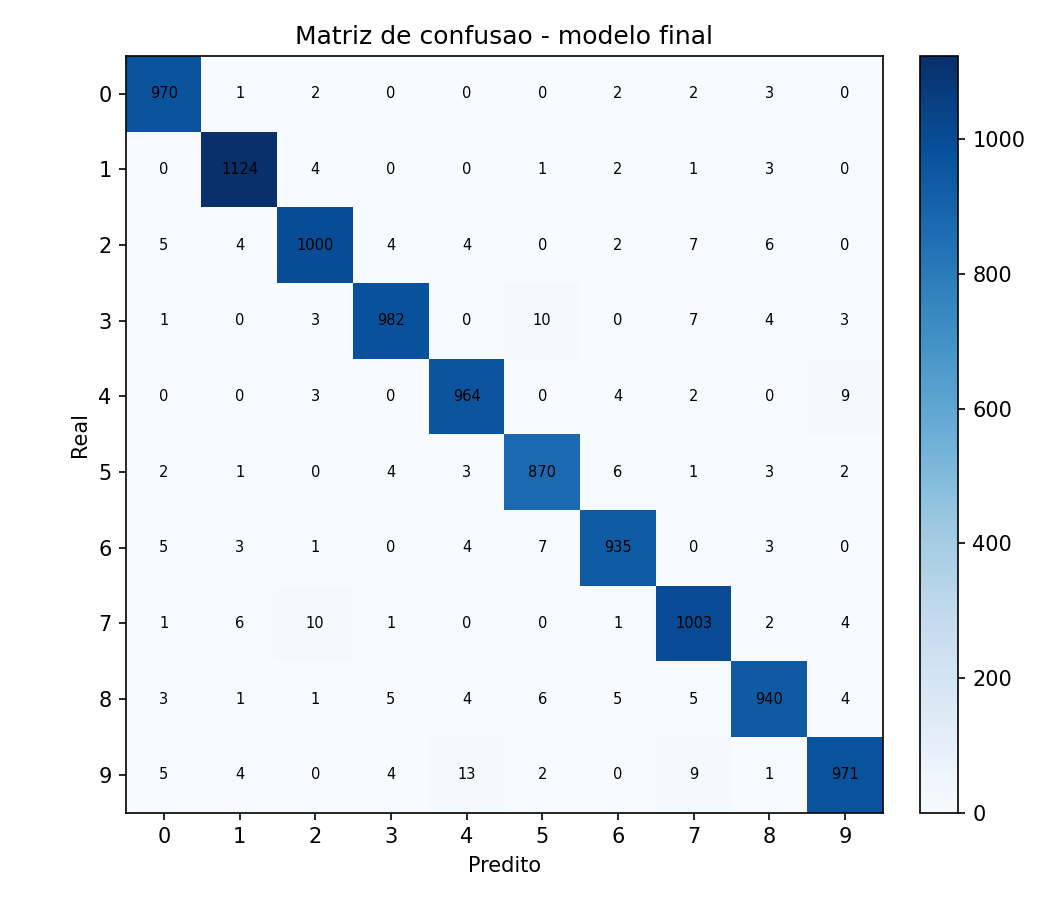
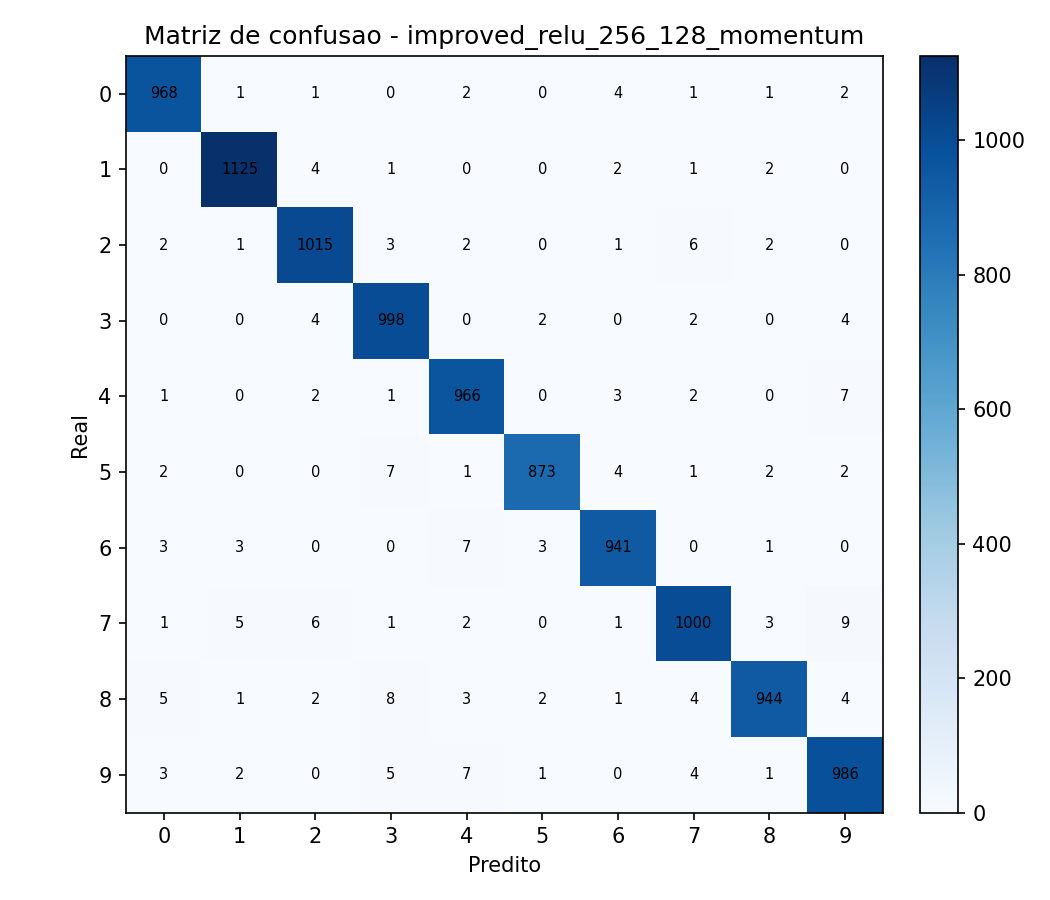
feat: melhora mlp com momentum e mais capacidade

diff --git a/scripts/train.py b/scripts/train.py
@@ -27,6 +27,7 @@ EXPERIMENTS = [
         "activation": "relu",
         "learning_rate": 0.08,
         "learning_rate_decay": 0.96,
+        "momentum": 0.0,
         "epochs": 8,
         "batch_size": 128,
         "l2": 0.0,
@@ -38,10 +39,23 @@ EXPERIMENTS = [
         "activation": "relu",
         "learning_rate": 0.12,
         "learning_rate_decay": 0.96,
+        "momentum": 0.0,
         "epochs": 10,
         "batch_size": 128,
         "l2": 0.0,
         "seed": 42,
+    },
+    {
+        "name": "improved_relu_256_128_momentum",
+        "hidden_layers": [256, 128],
+        "activation": "relu",
+        "learning_rate": 0.05,
+        "learning_rate_decay": 0.97,
+        "momentum": 0.9,
+        "epochs": 15,
+        "batch_size": 128,
+        "l2": 1e-4,
+        "seed": 84,
     },
 ]
 
@@ -72,6 +86,9 @@ def main() -> None:
     experiments = _quick_experiments() if args.quick else EXPERIMENTS
     summary = []
     histories: dict[str, list[dict[str, float]]] = {}
+    best_model: MLPClassifier | None = None
+    best_accuracy = -1.0
+    best_name = ""
 
     for config in experiments:
         layer_sizes = [X_train.shape[1], *config["hidden_layers"], 10]
@@ -86,6 +103,7 @@ def main() -> None:
             batch_size=config["batch_size"],
             learning_rate=config["learning_rate"],
             learning_rate_decay=config["learning_rate_decay"],
+            momentum=config["momentum"],
             l2=config["l2"],
             train_metric_sample_size=min(10_000, X_train.shape[0]),
             verbose=True,
@@ -103,15 +121,20 @@ def main() -> None:
         histories[config["name"]] = history
         _write_history(results_dir / f"history_{config['name']}.csv", history)
 
-        if config["name"].startswith("final"):
-            _plot_confusion_matrix(
-                y_test,
-                model.predict(X_test),
-                results_dir / "confusion_matrix_final.png",
-            )
+        if test_metrics["accuracy"] > best_accuracy:
+            best_accuracy = test_metrics["accuracy"]
+            best_model = model
+            best_name = config["name"]
 
     _write_summary(results_dir, summary)
     _plot_histories(histories, results_dir / "loss_accuracy.png")
+    if best_model is not None:
+        _plot_confusion_matrix(
+            y_test,
+            best_model.predict(X_test),
+            results_dir / "confusion_matrix_final.png",
+            title=f"Matriz de confusao - {best_name}",
+        )
     print("\nResumo salvo em", results_dir / "summary.json")
 
 
@@ -166,14 +189,14 @@ def _plot_histories(histories: dict[str, list[dict[str, float]]], path: Path) ->
     plt.close(fig)
 
 
-def _plot_confusion_matrix(y_true: np.ndarray, y_pred: np.ndarray, path: Path) -> None:
+def _plot_confusion_matrix(y_true: np.ndarray, y_pred: np.ndarray, path: Path, title: str) -> None:
     matrix = np.zeros((10, 10), dtype=np.int64)
     for actual, predicted in zip(y_true, y_pred):
         matrix[int(actual), int(predicted)] += 1
 
     fig, axis = plt.subplots(figsize=(7, 6))
     image = axis.imshow(matrix, cmap="Blues")
-    axis.set_title("Matriz de confusao - modelo final")
+    axis.set_title(title)
     axis.set_xlabel("Predito")
     axis.set_ylabel("Real")
     axis.set_xticks(range(10))

diff --git a/README.md b/README.md
@@ -2,7 +2,7 @@
 
 Implementacao didatica de um Multi-Layer Perceptron para classificar digitos manuscritos do MNIST. A rede foi feita manualmente com NumPy: forward pass, softmax, cross-entropy, backpropagation e mini-batch SGD. O `torchvision` foi usado apenas para carregar o dataset, conforme permitido no enunciado.
 
-Resultado final: **97.59% de acuracia no conjunto de teste**, acima da meta de 92%.
+Resultado final melhorado: **98.16% de acuracia no conjunto de teste**, acima da meta de 92% e acima da configuracao anterior de 97.59%.
 
 ## Fontes de estudo
 
@@ -16,6 +16,7 @@ Resultado final: **97.59% de acuracia no conjunto de teste**, acima da meta de 9
 |-- mlp/
 |   |-- activations.py
 |   |-- data.py
+|   |-- gradient_check.py
 |   |-- losses.py
 |   |-- network.py
 |   `-- optimizers.py
@@ -23,13 +24,16 @@ Resultado final: **97.59% de acuracia no conjunto de teste**, acima da meta de 9
 |   `-- experimentos.ipynb
 |-- results/
 |   |-- confusion_matrix_final.png
+|   |-- gradient_check.json
 |   |-- history_compact_relu_64_32.csv
 |   |-- history_final_relu_128_64.csv
+|   |-- history_improved_relu_256_128_momentum.csv
 |   |-- loss_accuracy.png
 |   |-- summary.csv
 |   |-- summary.json
 |   `-- train_full.log
 |-- scripts/
+|   |-- check_gradients.py
 |   `-- train.py
 |-- tests/
 |   |-- test_backprop.py
@@ -45,6 +49,7 @@ python -m venv .venv
 .\.venv\Scripts\Activate.ps1
 pip install -r requirements.txt
 python -m pytest tests
+python scripts/check_gradients.py
 python scripts/train.py
 ```
 
@@ -58,10 +63,10 @@ O notebook principal esta em `notebooks/experimentos.ipynb`.
 
 ## Arquitetura escolhida
 
-Modelo final:
+Modelo final melhorado:
 
 ```text
-784 entradas -> 128 ReLU -> 64 ReLU -> 10 logits -> softmax
+784 entradas -> 256 ReLU -> 128 ReLU -> 10 logits -> softmax
 ```
 
 Decisoes:
@@ -70,14 +75,18 @@ Decisoes:
 - Usei **ReLU** nas camadas ocultas porque e simples, barata e evita boa parte da saturacao que sigmoid/tanh podem ter em redes maiores.
 - Usei **inicializacao He** nas camadas ocultas para preservar melhor a escala dos sinais no comeco do treino.
 - Usei **softmax + cross-entropy** na saida porque o problema e multiclasse.
-- Usei **mini-batch SGD** com batch size 128 e decaimento simples do learning rate.
+- Usei **mini-batch SGD com momentum 0.9** no modelo melhorado para acelerar a convergencia sem trocar a implementacao manual por um framework.
+- Usei **L2 leve (`1e-4`)** porque a nova arquitetura chegou perto de 100% no subconjunto de treino usado para metrica, entao havia risco de overfitting.
 
 ## Resultados
 
 | Configuracao | Arquitetura | Epocas | LR inicial | Decaimento | Acuracia teste | Loss teste |
 | --- | --- | ---: | ---: | ---: | ---: | ---: |
 | `compact_relu_64_32` | 784 -> 64 -> 32 -> 10 | 8 | 0.08 | 0.96 | 96.34% | 0.1246 |
-| `final_relu_128_64` | 784 -> 128 -> 64 -> 10 | 10 | 0.12 | 0.96 | **97.59%** | **0.0821** |
+| `final_relu_128_64` | 784 -> 128 -> 64 -> 10 | 10 | 0.12 | 0.96 | 97.59% | 0.0821 |
+| `improved_relu_256_128_momentum` | 784 -> 256 -> 128 -> 10 | 15 | 0.05 | 0.97 | **98.16%** | 0.1013 |
+
+O modelo melhorado ganhou **+0.57 ponto percentual** de acuracia de teste em relacao ao modelo anterior (`97.59% -> 98.16%`). A loss de teste ficou maior que a do modelo anterior, mas a acuracia e a validacao subiram; isso sugere predicoes corretas mais frequentes, com algumas probabilidades menos calibradas. Para esta ponderada, a metrica principal do enunciado e acuracia.
 
 ![Curvas de loss e acuracia](results/loss_accuracy.png)
 
@@ -96,10 +105,13 @@ Decisoes:
 | Smoke test | `44dcb0a` | Eu nao queria gastar minutos no treino completo antes de validar o pipeline | Criar `--quick` para rodar em subconjunto pequeno |
 | Treino completo | `5dfc65d` | O stdout ficou bufferizado em processo separado | Salvar CSV, JSON, PNG e log como evidencia principal |
 | Notebook | `7685462` | O notebook precisava explicar processo, nao so mostrar codigo | Montar narrativa executavel com referencias, validacao e resultados |
+| Melhoria do modelo | incremento atual | O modelo anterior ja passava da meta, mas ainda havia margem de capacidade | Aumentar largura, ativar momentum e adicionar L2 leve; reexecutar treino completo |
 
 ## Decisoes e dificuldades
 
 A decisao tecnica mais dificil foi **nao pular direto para o MNIST**. Eu queria ver a acuracia logo, mas isso teria tornado o debug confuso. Fiz primeiro o forward pass, depois o gradient check e so depois treinei no dataset real. Essa ordem foi mais lenta no comeco, mas evitou perder tempo tentando ajustar learning rate quando o problema poderia ser um gradiente errado.
+
+Na melhoria do modelo, a decisao principal foi aumentar a arquitetura de `128 -> 64` para `256 -> 128` e usar momentum. Eu escolhi isso porque o modelo anterior ainda nao saturava a validacao, e momentum costuma ajudar SGD a atravessar regioes rasas ou oscilatorias da superficie de loss. Como o treino chegou perto de 100%, adicionei L2 leve para reduzir o risco de memorizar demais.
 
 O que tentei que nao funcionou: a primeira inspecao do notebook falhou por eu usar sintaxe de Bash dentro do PowerShell. Depois, a impressao do enunciado falhou por causa do encoding do terminal. Tambem descobri que `tensorflow/keras` nao estava disponivel, entao precisei usar Torchvision como fonte dos dados. Essas dificuldades nao mudaram a matematica da rede, mas mudaram o processo: passei a validar ambiente e caminhos antes de implementar cada etapa.
 
@@ -111,6 +123,7 @@ Comandos executados:
 
 ```powershell
 python -m pytest tests
+python scripts/check_gradients.py
 python scripts/train.py --quick
 python scripts/train.py
 ```
@@ -119,6 +132,7 @@ Sinais observaveis:
 
 - `tests/test_forward.py`: valida dimensoes e soma da softmax.
 - `tests/test_backprop.py`: valida gradient check e queda de loss em problema pequeno.
+- `results/gradient_check.json`: registra a validacao numerica dos gradientes.
 - `results/summary.json`: registra acuracia final de teste.
 - `results/train_full.log`: registra a evolucao por epoca no treino completo.
 - `notebooks/experimentos.ipynb`: documenta o processo em formato notebook.